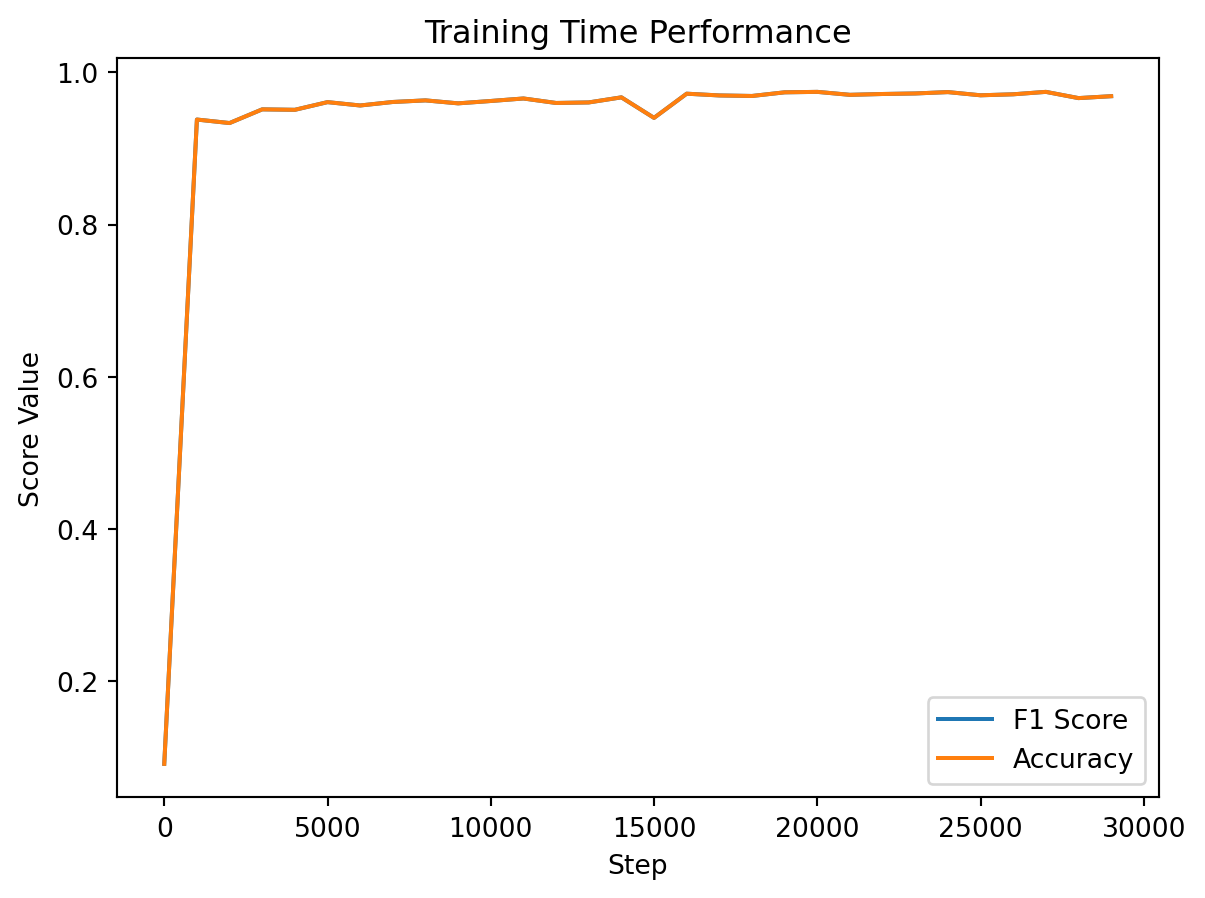
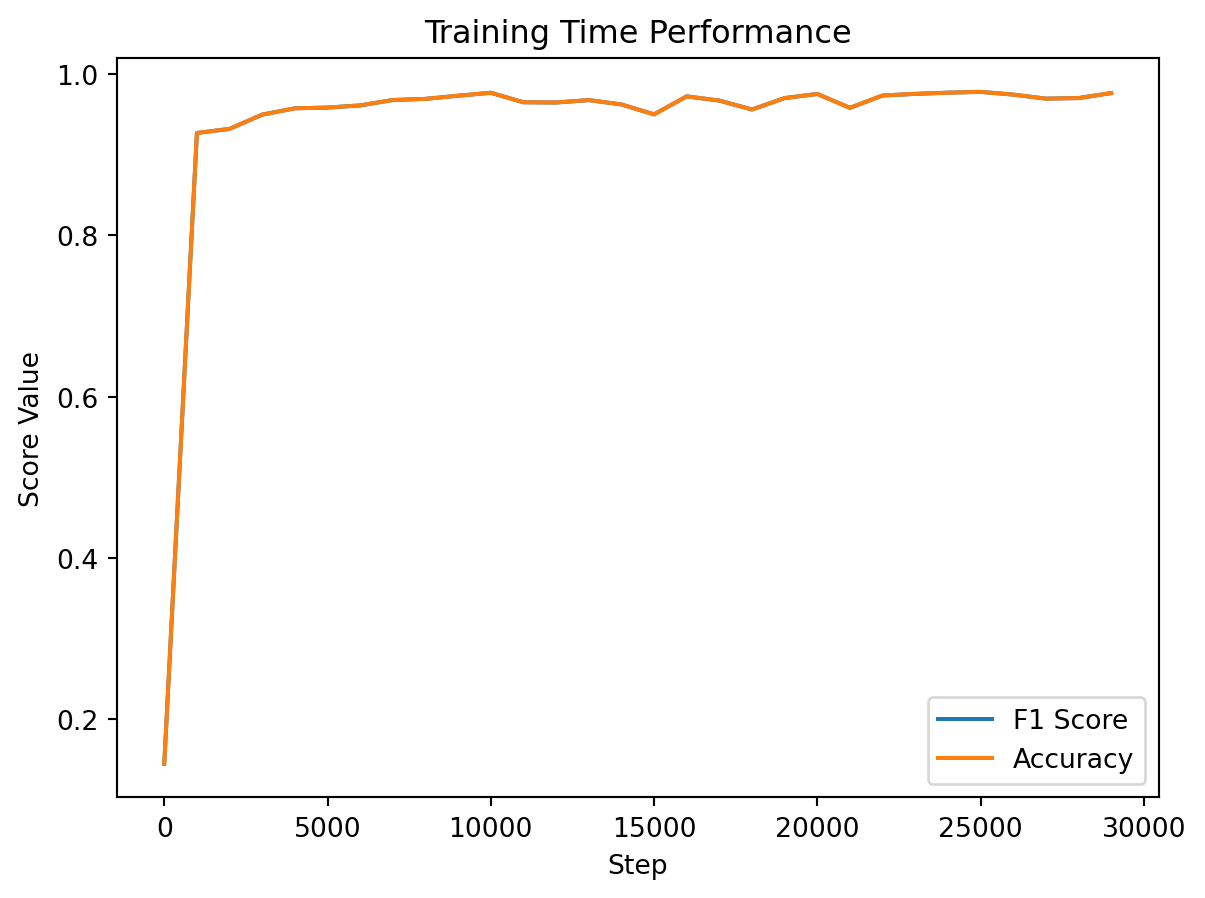
Add Neural Networks Post

diff --git a/docs/posts/Neural-Networks/index.html b/docs/posts/Neural-Networks/index.html
@@ -139,7 +139,7 @@ pre > code.sourceCode > span > a:first-child::before { text-decoration: underlin
 <header id="title-block-header" class="quarto-title-block default page-columns page-full">
   <div class="quarto-title-banner page-columns page-full">
     <div class="quarto-title column-body">
-      <h1 class="title">KNN for Text Classification</h1>
+      <h1 class="title">Neural Networks and Images</h1>
                                 <div class="quarto-categories">
                 <div class="quarto-category">KNN</div>
                 <div class="quarto-category">NLP</div>
@@ -179,6 +179,12 @@ pre > code.sourceCode > span > a:first-child::before { text-decoration: underlin
 
 
 
+<div class="quarto-figure quarto-figure-center">
+<figure class="figure">
+<p><img src="image.png" class="img-fluid figure-img"></p>
+<figcaption class="figure-caption">Gradient-Based Learning Applied to Document Recognition by LeCun et al.</figcaption>
+</figure>
+</div>
 <section id="image-classification-using-a-neural-network" class="level1">
 <h1>Image Classification Using a Neural Network</h1>
 <p>Bio-mimicry serves as a design approach, guiding engineers and scientists to solve problems by drawing inspiration from nature. Neural networks stand among the various manifestations of this concept. They employ mathematical functions to emulate the behavior of brain neurons, adjusting connections based on their performance—a process reminiscent of the strengthening of brain synapses in response to stimuli.</p>
@@ -347,7 +353,7 @@ pre > code.sourceCode > span > a:first-child::before { text-decoration: underlin
 <span id="cb5-6"><a href="#cb5-6" aria-hidden="true" tabindex="-1"></a>train_loader <span class="op">=</span> torch.utils.data.DataLoader(train_data, batch_size<span class="op">=</span>BATCH_SIZE)</span>
 <span id="cb5-7"><a href="#cb5-7" aria-hidden="true" tabindex="-1"></a>test_loader <span class="op">=</span> torch.utils.data.DataLoader(test_data, batch_size<span class="op">=</span>BATCH_SIZE)</span></code><button title="Copy to Clipboard" class="code-copy-button"><i class="bi"></i></button></pre></div>
 <div class="cell-output cell-output-stderr">
-<pre><code>/var/folders/1n/_w4rlkb92pq1mwmj66_byr080000gn/T/ipykernel_16914/2513850566.py:6: UserWarning: Creating a tensor from a list of numpy.ndarrays is extremely slow. Please consider converting the list to a single numpy.ndarray with numpy.array() before converting to a tensor. (Triggered internally at /Users/runner/work/pytorch/pytorch/pytorch/torch/csrc/utils/tensor_new.cpp:264.)
+<pre><code>/var/folders/1n/_w4rlkb92pq1mwmj66_byr080000gn/T/ipykernel_17628/2513850566.py:6: UserWarning: Creating a tensor from a list of numpy.ndarrays is extremely slow. Please consider converting the list to a single numpy.ndarray with numpy.array() before converting to a tensor. (Triggered internally at /Users/runner/work/pytorch/pytorch/pytorch/torch/csrc/utils/tensor_new.cpp:264.)
   self.x_tensor = torch.tensor(x, dtype=torch.float32)</code></pre>
 </div>
 </div>
@@ -551,36 +557,36 @@ D_{out} = D_{in} - (kernel\_dim - 1)
 <span id="cb14-42"><a href="#cb14-42" aria-hidden="true" tabindex="-1"></a>            accuracies.append(acc)</span>
 <span id="cb14-43"><a href="#cb14-43" aria-hidden="true" tabindex="-1"></a>            f1_scores.append(f1)</span></code><button title="Copy to Clipboard" class="code-copy-button"><i class="bi"></i></button></pre></div>
 <div class="cell-output cell-output-stdout">
-<pre><code>The current step is 0 in the 0 epoch. The loss for the last batch was 3.4549365043640137. The total loss is 3.4549365043640137
-The current step is 1000 in the 0 epoch. The loss for the last batch was 0.0003376132226549089. The total loss is 488.2238568767789
-The current step is 2000 in the 0 epoch. The loss for the last batch was 0.0006364104337990284. The total loss is 716.34141680014
-The current step is 3000 in the 0 epoch. The loss for the last batch was 0.4449322819709778. The total loss is 917.8438064835191
-The current step is 4000 in the 0 epoch. The loss for the last batch was 0.027418509125709534. The total loss is 1096.5690785123625
-The current step is 5000 in the 0 epoch. The loss for the last batch was 0.6819823384284973. The total loss is 1228.6315221170535
-The current step is 6000 in the 0 epoch. The loss for the last batch was 0.00718369334936142. The total loss is 1357.326763295147
-The current step is 7000 in the 0 epoch. The loss for the last batch was 2.5569874196662568e-05. The total loss is 1508.4818455485984
-The current step is 8000 in the 0 epoch. The loss for the last batch was 0.04664741829037666. The total loss is 1649.917290136606
-The current step is 9000 in the 0 epoch. The loss for the last batch was 0.010943003930151463. The total loss is 1767.3314857355763
-The current step is 10000 in the 0 epoch. The loss for the last batch was 0.07625303417444229. The total loss is 1902.3372438394913
-The current step is 11000 in the 0 epoch. The loss for the last batch was 0.01113509014248848. The total loss is 2028.945586610349
-The current step is 12000 in the 0 epoch. The loss for the last batch was 0.00565516809001565. The total loss is 2150.9045927639354
-The current step is 13000 in the 0 epoch. The loss for the last batch was 8.048972085816786e-05. The total loss is 2271.371795618788
-The current step is 14000 in the 0 epoch. The loss for the last batch was 0.000710233929567039. The total loss is 2371.550160141267
-The current step is 0 in the 1 epoch. The loss for the last batch was 0.006248997524380684. The total loss is 2468.3533133020796
-The current step is 1000 in the 1 epoch. The loss for the last batch was 2.7029969714931212e-05. The total loss is 2584.376191064959
-The current step is 2000 in the 1 epoch. The loss for the last batch was 0.0031830326188355684. The total loss is 2686.1134369821834
-The current step is 3000 in the 1 epoch. The loss for the last batch was 0.00045319690252654254. The total loss is 2792.8992587544394
-The current step is 4000 in the 1 epoch. The loss for the last batch was 0.004338365513831377. The total loss is 2896.4378015009765
-The current step is 5000 in the 1 epoch. The loss for the last batch was 0.07258158922195435. The total loss is 2983.7063470749267
-The current step is 6000 in the 1 epoch. The loss for the last batch was 0.0007679103873670101. The total loss is 3067.6417703942675
-The current step is 7000 in the 1 epoch. The loss for the last batch was 0.0007987686549313366. The total loss is 3159.112466964046
-The current step is 8000 in the 1 epoch. The loss for the last batch was 1.2035833597183228. The total loss is 3269.1095810081238
-The current step is 9000 in the 1 epoch. The loss for the last batch was 0.008648743852972984. The total loss is 3364.1403262537488
-The current step is 10000 in the 1 epoch. The loss for the last batch was 0.008056752383708954. The total loss is 3471.2567522901927
-The current step is 11000 in the 1 epoch. The loss for the last batch was 0.0017160882707685232. The total loss is 3563.579129313987
-The current step is 12000 in the 1 epoch. The loss for the last batch was 5.554722520173527e-05. The total loss is 3650.4244513299213
-The current step is 13000 in the 1 epoch. The loss for the last batch was 0.00046719619422219694. The total loss is 3752.8129204722018
-The current step is 14000 in the 1 epoch. The loss for the last batch was 0.03299509361386299. The total loss is 3829.095918618343</code></pre>
+<pre><code>The current step is 0 in the 0 epoch. The loss for the last batch was 2.5118818283081055. The total loss is 2.5118818283081055
+The current step is 1000 in the 0 epoch. The loss for the last batch was 0.00019064077059738338. The total loss is 402.3790826080949
+The current step is 2000 in the 0 epoch. The loss for the last batch was 0.007784834131598473. The total loss is 630.2171822011369
+The current step is 3000 in the 0 epoch. The loss for the last batch was 0.31402093172073364. The total loss is 828.325722384674
+The current step is 4000 in the 0 epoch. The loss for the last batch was 0.05727211758494377. The total loss is 992.3858734842652
+The current step is 5000 in the 0 epoch. The loss for the last batch was 1.038927435874939. The total loss is 1139.6768631321047
+The current step is 6000 in the 0 epoch. The loss for the last batch was 0.0009276647469960153. The total loss is 1291.0527541751126
+The current step is 7000 in the 0 epoch. The loss for the last batch was 5.411823440226726e-05. The total loss is 1433.9318784731072
+The current step is 8000 in the 0 epoch. The loss for the last batch was 0.02909553423523903. The total loss is 1569.0353211201611
+The current step is 9000 in the 0 epoch. The loss for the last batch was 0.0016324251191690564. The total loss is 1692.7488625424417
+The current step is 10000 in the 0 epoch. The loss for the last batch was 0.0007266034372150898. The total loss is 1825.799671471806
+The current step is 11000 in the 0 epoch. The loss for the last batch was 0.15393595397472382. The total loss is 1948.5074339373969
+The current step is 12000 in the 0 epoch. The loss for the last batch was 0.03495137393474579. The total loss is 2081.7106505188053
+The current step is 13000 in the 0 epoch. The loss for the last batch was 1.8179383687311201e-06. The total loss is 2201.126154773506
+The current step is 14000 in the 0 epoch. The loss for the last batch was 0.001376169384457171. The total loss is 2303.097301723252
+The current step is 0 in the 1 epoch. The loss for the last batch was 0.009656275622546673. The total loss is 2386.507972811058
+The current step is 1000 in the 1 epoch. The loss for the last batch was 2.2351696316036396e-06. The total loss is 2502.6704517734515
+The current step is 2000 in the 1 epoch. The loss for the last batch was 0.00018026494944933802. The total loss is 2619.466249132029
+The current step is 3000 in the 1 epoch. The loss for the last batch was 0.2690008580684662. The total loss is 2722.321820364261
+The current step is 4000 in the 1 epoch. The loss for the last batch was 0.0035512440372258425. The total loss is 2829.6995345894484
+The current step is 5000 in the 1 epoch. The loss for the last batch was 1.3796626329421997. The total loss is 2939.1334310225466
+The current step is 6000 in the 1 epoch. The loss for the last batch was 0.0006543516064994037. The total loss is 3020.2271241231297
+The current step is 7000 in the 1 epoch. The loss for the last batch was 4.380762038636021e-05. The total loss is 3121.3465826178667
+The current step is 8000 in the 1 epoch. The loss for the last batch was 0.0034886589273810387. The total loss is 3218.0650048560483
+The current step is 9000 in the 1 epoch. The loss for the last batch was 0.0013425680808722973. The total loss is 3303.079055246866
+The current step is 10000 in the 1 epoch. The loss for the last batch was 0.0009152928832918406. The total loss is 3408.8077732116717
+The current step is 11000 in the 1 epoch. The loss for the last batch was 0.006524167954921722. The total loss is 3503.906166425218
+The current step is 12000 in the 1 epoch. The loss for the last batch was 0.0023341537453234196. The total loss is 3590.7320133735475
+The current step is 13000 in the 1 epoch. The loss for the last batch was 5.9902122302446514e-06. The total loss is 3683.8352903491464
+The current step is 14000 in the 1 epoch. The loss for the last batch was 0.0006539506139233708. The total loss is 3762.844680770593</code></pre>
 </div>
 </div>
 <p>Let’s graph the performance of the model as it was training.</p>
@@ -615,7 +621,7 @@ The current step is 14000 in the 1 epoch. The loss for the last batch was 0.0329
 <div class="sourceCode cell-code" id="cb17"><pre class="sourceCode python code-with-copy"><code class="sourceCode python"><span id="cb17-1"><a href="#cb17-1" aria-hidden="true" tabindex="-1"></a>f1, acc <span class="op">=</span> evaluate_performance(test_loader)</span>
 <span id="cb17-2"><a href="#cb17-2" aria-hidden="true" tabindex="-1"></a><span class="bu">print</span>(<span class="ss">f"The accuracy was </span><span class="sc">{</span>acc<span class="sc">}</span><span class="ss"> and the f1 score was </span><span class="sc">{</span>f1<span class="sc">}</span><span class="ss">"</span>)</span></code><button title="Copy to Clipboard" class="code-copy-button"><i class="bi"></i></button></pre></div>
 <div class="cell-output cell-output-stdout">
-<pre><code>The accuracy was 0.9753 and the f1 score was 0.9753</code></pre>
+<pre><code>The accuracy was 0.9612 and the f1 score was 0.9612</code></pre>
 </div>
 </div>
 </section>

diff --git a/docs/index.html b/docs/index.html
@@ -173,9 +173,9 @@ ul.task-list li input[type="checkbox"] {
 
 <div class="quarto-listing quarto-listing-container-default" id="listing-listing">
 <div class="list quarto-listing-default">
-<div class="quarto-post image-right" data-index="0" data-categories="KNN,NLP,Outlier Prediction" data-listing-date-sort="1701579600000" data-listing-file-modified-sort="1701658894372" data-listing-date-modified-sort="NaN" data-listing-reading-time-sort="21">
+<div class="quarto-post image-right" data-index="0" data-categories="KNN,NLP,Outlier Prediction" data-listing-date-sort="1701579600000" data-listing-file-modified-sort="1701659091302" data-listing-date-modified-sort="NaN" data-listing-reading-time-sort="21">
 <div class="thumbnail">
-<p><a href="./posts/Neural-Networks/index.html"> <p class="card-img-top"><img src="posts/Neural-Networks/index_files/figure-html/cell-3-output-1.png"  class="thumbnail-image card-img"/></p> </a></p>
+<p><a href="./posts/Neural-Networks/index.html"> <p class="card-img-top"><img src="posts/Neural-Networks/image.png"  class="thumbnail-image card-img"/></p> </a></p>
 </div>
 <div class="body">
 <a href="./posts/Neural-Networks/index.html">
